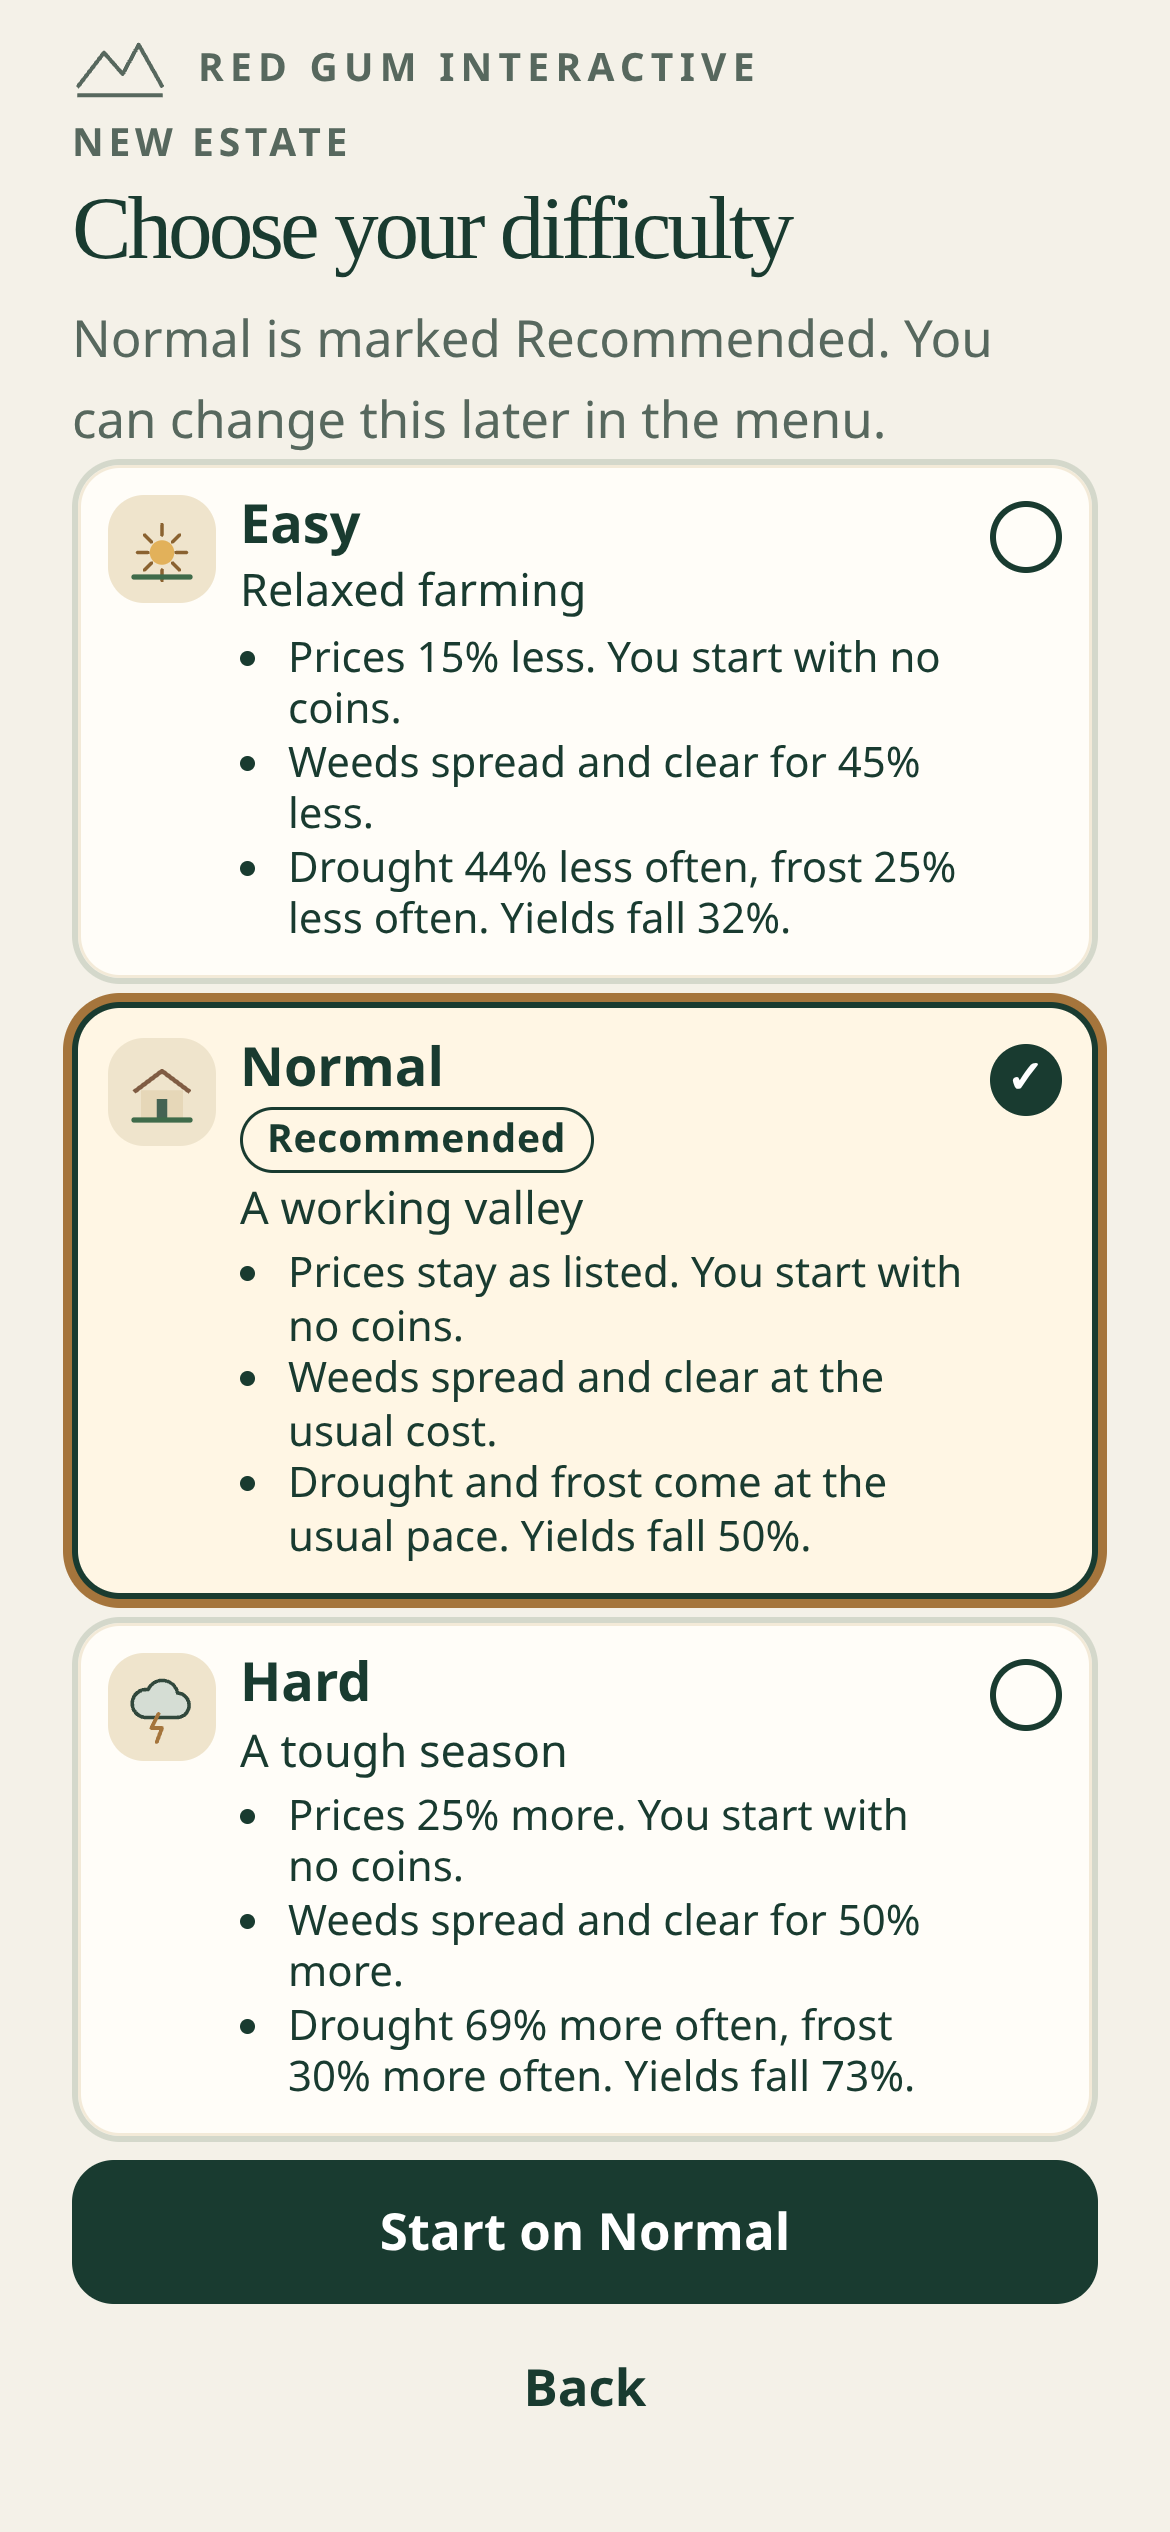
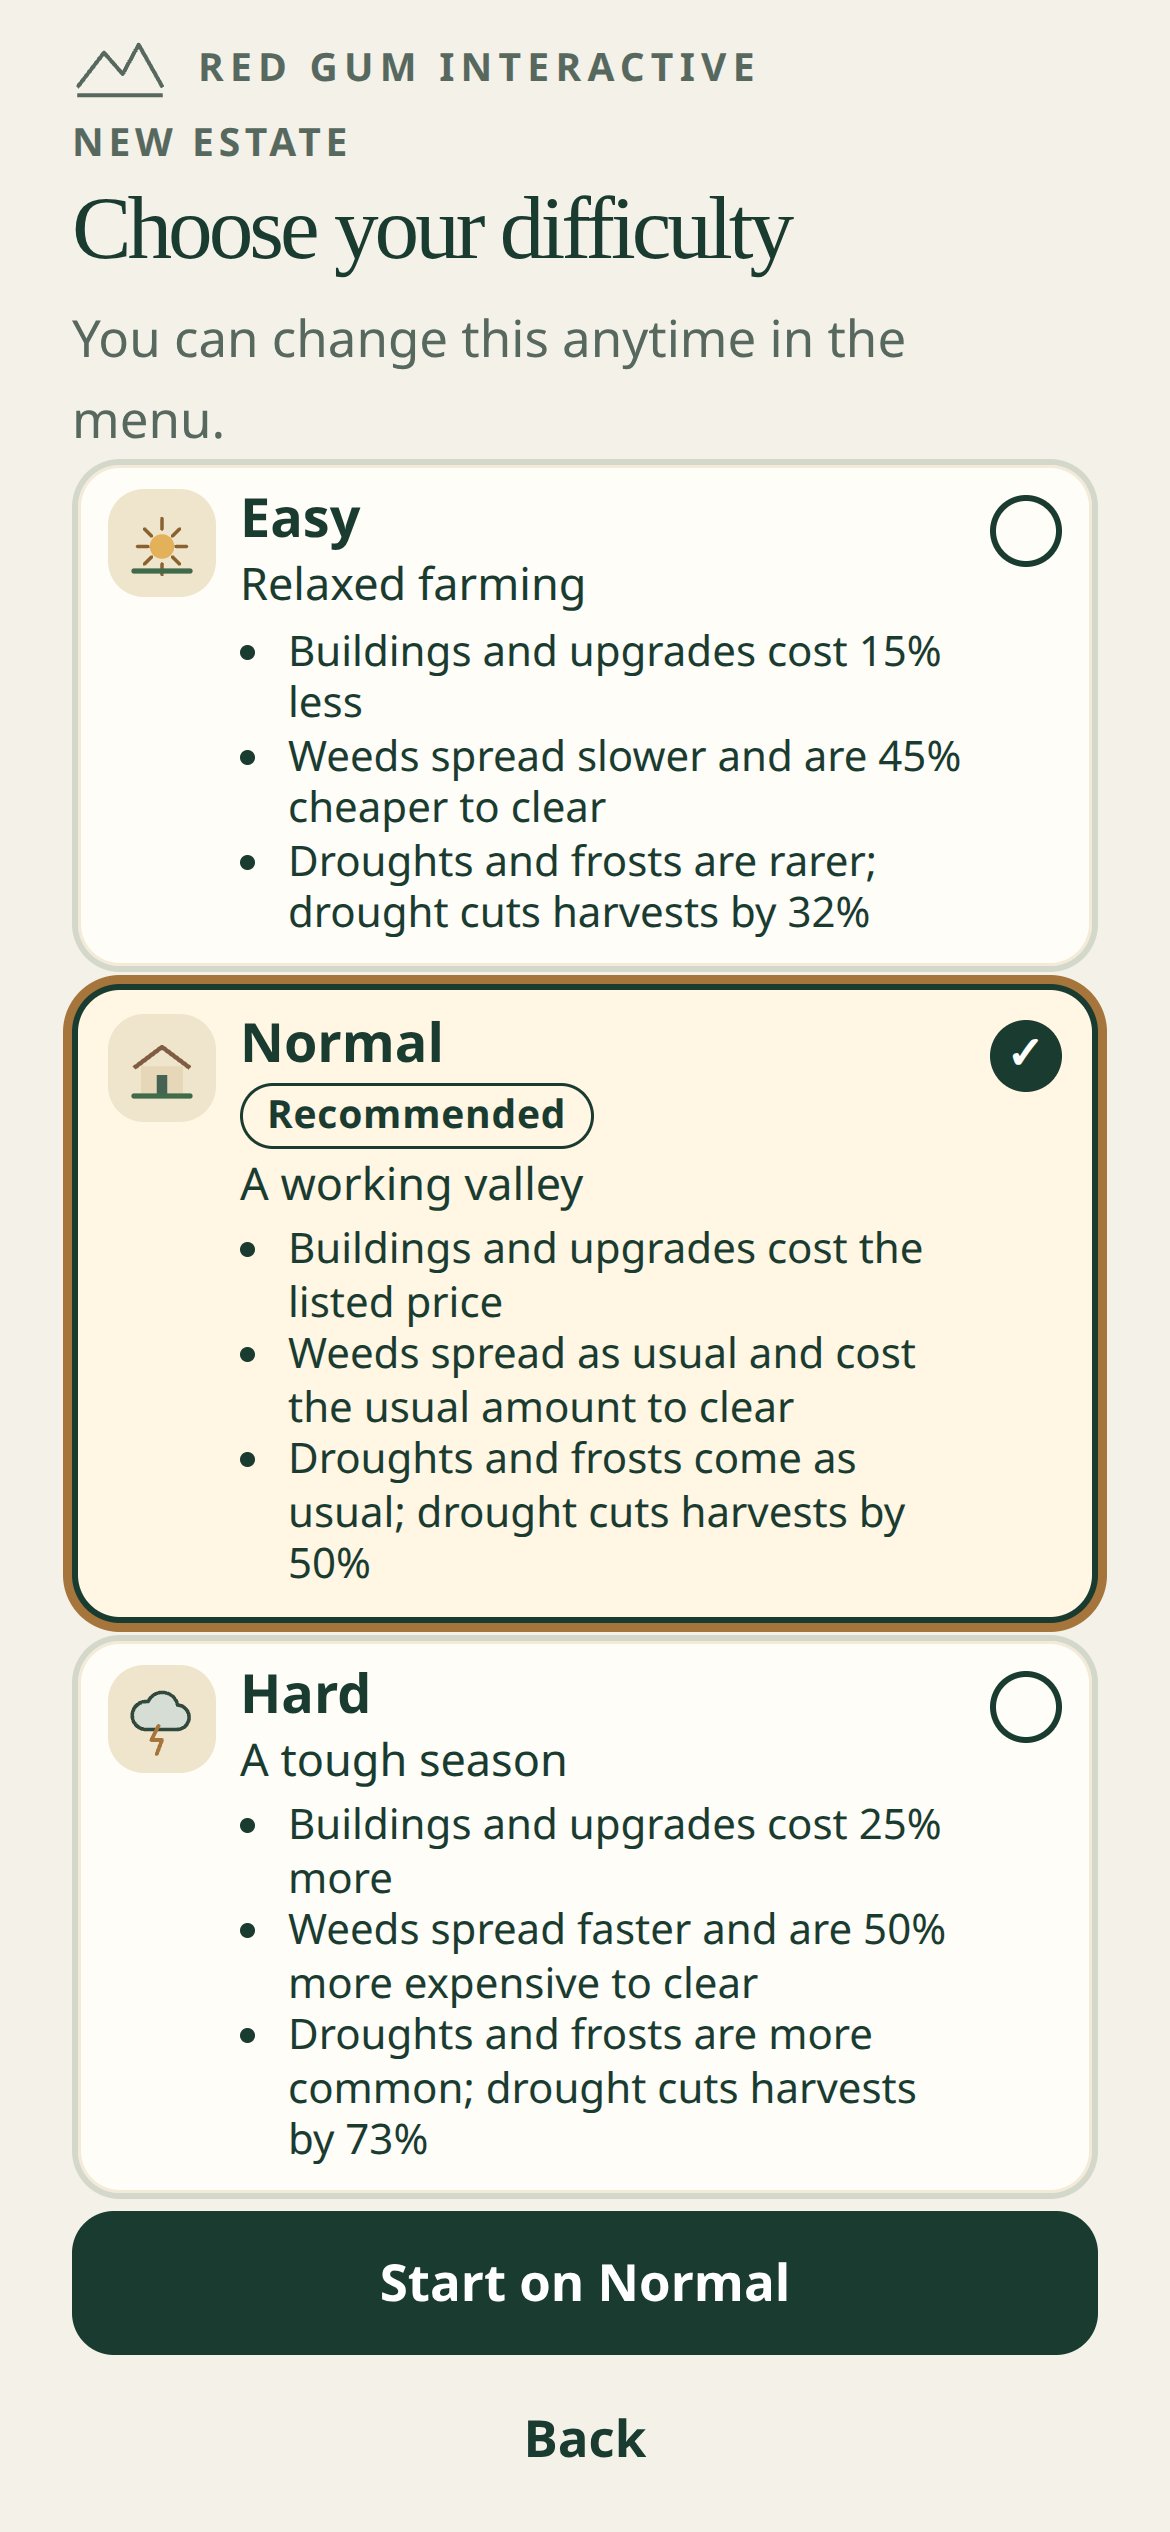
Clarify the difficulty cards and the menu change control.
Each card now uses the same Costs, Weeds, and Weather lines, and the menu opens those cards from a Change button instead of a second badge.

Changed region(s): [[0.0615, 0.1248, 0.9538, 0.9672], [0.8308, 0.1872, 0.9231, 0.2496], [0.1846, 0.5304, 0.2154, 0.5928]]

diff --git a/assets/entry.js b/assets/entry.js
@@ -5,7 +5,7 @@ const brand='<div class="entry-brand"><svg viewBox="0 0 36 24" fill="none" aria-
 const landscape=`<svg class="entry-art" viewBox="0 0 640 500" preserveAspectRatio="xMidYMid slice" role="img" aria-label="An illustrated valley estate with vineyard rows and a homestead"><defs><linearGradient id="entry-sky" x2="0" y2="1"><stop stop-color="#e3e8dc"/><stop offset="1" stop-color="#f3edda"/></linearGradient><clipPath id="entry-land"><path d="M0 260Q170 170 350 285T640 270V500H0Z"/></clipPath></defs><path fill="url(#entry-sky)" d="M0 0h640v500H0z"/><circle cx="480" cy="108" r="36" fill="#f8f1d9"/><path d="M0 222Q105 115 250 195T640 190V500H0Z" fill="#a6b6a1"/><path d="M0 263Q160 163 340 246T640 230V500H0Z" fill="#78917a"/><path d="M0 326Q160 206 360 298T640 268V500H0Z" fill="#486e54"/><path d="M0 380Q180 274 370 358T640 320V500H0Z" fill="#274e3d"/><g opacity=".43" stroke="#acb58a" stroke-width="8" clip-path="url(#entry-land)"><path d="m-160 500 405-208M-70 530 350 298M40 560l405-250M170 580l378-250M315 590l330-250"/></g><path d="m394 304 53-33 54 33v57H394Z" fill="#e6d7b8"/><path d="m382 305 65-43 67 43-7 9-60-36-59 37Z" fill="#805c43"/><path d="M433 324h21v37h-21zM402 320h17v17h-17zM469 320h17v17h-17z" fill="#456353"/><path d="M390 363h121" stroke="#bdac88" stroke-width="5"/><path d="M436 365q-11 41-82 70T257 500" fill="none" stroke="#c5ac7c" stroke-width="13"/><g fill="#203f32"><path d="m124 210-17 36h11l-19 37h41l-18-37h11Z"/><path d="m548 218-20 42h12l-22 44h48l-20-44h12Z"/></g><path d="M120 278v30m423-9v31" stroke="#54624a" stroke-width="5"/><path d="M41 414q39-19 77-19M525 398l72 15" fill="none" stroke="#79916d" stroke-width="2"/></svg>`;
 const footer='<footer class="entry-footer"><p>Ferguson Valley, Western Australia</p><nav aria-label="App information"><a href="privacy.html">Privacy</a><a href="credits.html">Credits</a><a href="support.html">Support</a></nav></footer>';
 function renderWelcome(continuing){const start=continuing?'<button class="entry-button" data-b="entry-start">Continue estate</button>':'<button class="entry-button" data-b="entry-difficulty">Start your estate</button>';return '<main class="entry-shell">'+brand+'<div class="entry-layout">'+landscape+'<section class="entry-copy"><p class="entry-eyebrow">A place to make your own</p><h1 class="entry-title" id="entry-title" tabindex="-1">Valley<br>Estates</h1><p class="entry-description">A quiet valley. A growing estate.<br>Build something worth coming back to.</p><div class="entry-actions">'+start+'<button class="entry-button secondary" data-b="entry-help">How to play</button></div><p class="entry-trust">Offline play. No account. Progress saved on this device.</p></section></div>'+footer+'</main>';}
-function renderDifficulty(difficulty, reset){const cards=root.VEExpansion.difficultyCardsHtml(difficulty||'normal');const spec=root.VEExpansion.difficultySpec(difficulty);const startLabel=(reset?'Erase and start on ':'Start on ')+spec.name;const note=reset?'Starting replaces this estate. You choose the pace first.':'Normal is marked Recommended. You can change this later in the menu.';return '<main class="entry-shell difficulty">'+brand+'<div class="entry-layout"><section class="entry-copy"><p class="entry-eyebrow">New estate</p><h1 class="entry-title" id="entry-title" tabindex="-1">Choose your difficulty</h1><p class="entry-description">'+note+'</p>'+cards+'<div class="entry-actions"><button class="entry-button" data-b="entry-start">'+startLabel+'</button><button class="entry-button secondary" data-b="entry-back">Back</button></div></section></div></main>';}
+function renderDifficulty(difficulty, reset){const cards=root.VEExpansion.difficultyCardsHtml(difficulty||'normal');const spec=root.VEExpansion.difficultySpec(difficulty);const startLabel=(reset?'Erase and start on ':'Start on ')+spec.name;const note=reset?'Starting replaces this estate. You choose the pace first.':'You can change this anytime in the menu.';return '<main class="entry-shell difficulty">'+brand+'<div class="entry-layout"><section class="entry-copy"><p class="entry-eyebrow">New estate</p><h1 class="entry-title" id="entry-title" tabindex="-1">Choose your difficulty</h1><p class="entry-description">'+note+'</p>'+cards+'<div class="entry-actions"><button class="entry-button" data-b="entry-start">'+startLabel+'</button><button class="entry-button secondary" data-b="entry-back">Back</button></div></section></div></main>';}
 function renderHelp(continuing){return '<main class="entry-shell help">'+brand+'<div class="entry-layout"><section><p class="entry-eyebrow">Your first few moments</p><h1 class="entry-title" id="entry-title" tabindex="-1">From a homestead<br>to your own estate.</h1><ol class="entry-steps"><li><h2>Put your farmhands to work</h2><p>Tap a farmhand, then a tree, rock or berry bush. Drag to explore; pinch to look closer.</p></li><li><h2>Give the valley room to grow</h2><p>Open Build to place your first cottage or field. Assign a farmhand to bring it to life.</p></li><li><h2>Find your own pace</h2><p>Follow the estate goals. Research better tools, grow vineyards and raise livestock as you progress.</p></li></ol><div class="entry-actions"><button class="entry-button" data-b="entry-start">'+(continuing?'Back to your estate':'Start your estate')+'</button><button class="entry-button secondary" data-b="entry-back">Back</button></div><p class="entry-trust">You can find these tips again in Menu.</p></section></div>'+footer+'</main>';}
 let active=false,muted=[],previousFocus=null,escapeHandler=null,entryMode='welcome';
 function isOpen(){return active;}

diff --git a/assets/expansion.js b/assets/expansion.js
@@ -819,20 +819,23 @@
     const yieldHit = difficultyPct((1 - droughtMul({ techs: {}, buildings: [], difficulty: spec.id })) * 100);
     const coins = Number(spec.coins) || 0;
     const priceText = price < 0
-      ? "Prices " + (-price) + "% less."
+      ? "Buildings and upgrades cost " + (-price) + "% less"
       : price > 0
-        ? "Prices " + price + "% more."
-        : "Prices stay as listed.";
-    const coinText = coins > 0 ? " You start with " + coins + " coins." : " You start with no coins.";
+        ? "Buildings and upgrades cost " + price + "% more"
+        : "Buildings and upgrades cost the listed price";
     const weedText = weeds < 0
-      ? "Weeds spread and clear for " + (-weeds) + "% less."
+      ? "Weeds spread slower and are " + (-weeds) + "% cheaper to clear"
       : weeds > 0
-        ? "Weeds spread and clear for " + weeds + "% more."
-        : "Weeds spread and clear at the usual cost.";
-    const weatherText = droughtOften === 0 && frostOften === 0
-      ? "Drought and frost come at the usual pace."
-      : "Drought " + oftenPhrase(droughtOften) + ", frost " + oftenPhrase(frostOften) + ".";
-    const yieldText = "Yields fall " + yieldHit + "%.";
+        ? "Weeds spread faster and are " + weeds + "% more expensive to clear"
+        : "Weeds spread as usual and cost the usual amount to clear";
+    const weatherPace = droughtOften < 0 && frostOften <= 0
+      ? "Droughts and frosts are rarer"
+      : droughtOften > 0 && frostOften >= 0
+        ? "Droughts and frosts are more common"
+        : "Droughts and frosts come as usual";
+    const weatherText = weatherPace + "; drought cuts harvests by " + yieldHit + "%";
+    const bullets = [priceText, weedText, weatherText];
+    if (coins > 0) bullets[0] += ". You start with " + coins + " coins";
     return {
       id: spec.id,
       name: spec.name,
@@ -849,15 +852,9 @@
       droughtOften: droughtOften,
       frostOften: frostOften,
       yieldHit: yieldHit,
-      bullets: [priceText + coinText, weedText, weatherText + " " + yieldText],
-      live: [priceText, weedText, weatherText + " " + yieldText],
+      bullets: bullets,
+      live: [priceText, weedText, weatherText],
     };
-  }
-
-  function oftenPhrase(pct) {
-    if (pct < 0) return (-pct) + "% less often";
-    if (pct > 0) return pct + "% more often";
-    return "at the usual pace";
   }
 
   function changedPct(from, to) {
@@ -875,9 +872,9 @@
     const to = difficultyFacts(toId);
     if (from.id === to.id) return "This estate is already on " + to.name + ".";
     const yieldLine = to.yieldHit === from.yieldHit
-      ? "Drought still cuts field yields by " + to.yieldHit + "%."
-      : "Drought cuts field yields by " + to.yieldHit + "% instead of " + from.yieldHit + "%.";
-    return "Change from " + from.name + " to " + to.name + "? " + thanNow(changedPct(from.costMul, to.costMul), "Building and study prices will be") + " " + thanNow(changedPct(from.weedMul, to.weedMul), "Weed spread and the cost to clear them will be") + " " + thanNow(changedPct(from.droughtRate, to.droughtRate), "Drought will come") + " " + thanNow(changedPct(from.frostRate, to.frostRate), "Frost will come") + " " + yieldLine + " Coins, buildings and stock stay as they are.";
+      ? "Drought still cuts harvests by " + to.yieldHit + "%."
+      : "Drought cuts harvests by " + to.yieldHit + "% instead of " + from.yieldHit + "%.";
+    return "Change from " + from.name + " to " + to.name + "? " + thanNow(changedPct(from.costMul, to.costMul), "Building and upgrade prices will be") + " " + thanNow(changedPct(from.weedMul, to.weedMul), "Weed spread and the cost to clear them will be") + " " + thanNow(changedPct(from.droughtRate, to.droughtRate), "Drought will come") + " " + thanNow(changedPct(from.frostRate, to.frostRate), "Frost will come") + " " + yieldLine + " Coins, buildings and stock stay as they are.";
   }
 
   function escText(value) {
@@ -905,7 +902,7 @@
 
   function difficultyMenuHtml(id) {
     const card = difficultyFacts(id);
-    return '<p class="diff-badge-row"><span class="diff-badge">' + escText(card.name) + '</span><span class="diff-badge-note">' + escText(card.vibe) + '</span></p><button type="button" class="diff-setting" data-b="difficulty-open" aria-label="Difficulty, ' + escText(card.name) + ", " + escText(card.vibe) + '"><span class="diff-setting-kicker">Difficulty</span><span class="diff-setting-value">' + escText(card.name) + '</span><span class="diff-setting-vibe">' + escText(card.vibe) + "</span></button>";
+    return '<button type="button" class="diff-setting" data-b="difficulty-open" aria-label="Difficulty, ' + escText(card.name) + ", " + escText(card.vibe) + ', Change"><span class="diff-setting-copy"><span class="diff-setting-kicker">Difficulty</span><span class="diff-setting-value">' + escText(card.name) + '</span><span class="diff-setting-vibe">' + escText(card.vibe) + '</span></span><span class="diff-setting-change">Change <span class="diff-setting-chevron" aria-hidden="true">›</span></span></button>';
   }
 
   function difficultyPickerHtml(id) {

diff --git a/assets/entry.css b/assets/entry.css
@@ -27,10 +27,10 @@ body.entry-active>#cv,body.entry-active>#hud,body.entry-active>#bar,body.entry-a
 .entry-shell.difficulty{padding-top:calc(10px + env(safe-area-inset-top,0px));padding-bottom:calc(8px + env(safe-area-inset-bottom,0px))}
 .entry-shell.difficulty .entry-description{font-size:15px;line-height:1.3;margin-bottom:6px}
 .entry-shell.difficulty .entry-layout{align-items:start;padding-top:0;gap:6px}
-.entry-shell.difficulty .entry-actions{margin-top:6px;gap:4px}
+.entry-shell.difficulty .entry-actions{margin-top:4px;gap:4px}
 .entry-shell.difficulty .entry-button{min-height:48px;padding:12px 16px}
-.diff-cards{display:flex;flex-direction:column;gap:6px}
-.diff-card{display:grid;grid-template-columns:36px 1fr 24px;gap:8px;align-items:start;width:100%;text-align:left;padding:10px;border-radius:16px;border:2px solid var(--entry-line);background:#fffdf8;color:var(--entry-ink);font:500 15px/1.35 -apple-system,BlinkMacSystemFont,system-ui,sans-serif;box-shadow:inset 0 0 0 1px #f3ead8}
+.diff-cards{display:flex;flex-direction:column;gap:4px}
+.diff-card{display:grid;grid-template-columns:36px 1fr 24px;gap:8px;align-items:start;width:100%;text-align:left;padding:8px 10px;border-radius:16px;border:2px solid var(--entry-line);background:#fffdf8;color:var(--entry-ink);font:500 15px/1.35 -apple-system,BlinkMacSystemFont,system-ui,sans-serif;box-shadow:inset 0 0 0 1px #f3ead8}
 .diff-card.is-on{border-color:var(--entry-ink);background:#fff6e4;box-shadow:0 0 0 3px var(--entry-accent)}
 .diff-icon{width:36px;height:36px;border-radius:12px;background:#efe4cc;display:grid;place-items:center}
 .diff-icon svg{width:28px;height:28px;display:block}
@@ -44,13 +44,13 @@ body.entry-active>#cv,body.entry-active>#hud,body.entry-active>#bar,body.entry-a
 .diff-tick-mark{font-size:15px;font-weight:700;line-height:1;color:#fff}
 .diff-card.is-on .diff-tick{background:var(--entry-ink)}
 .diff-card:focus-visible{outline:3px solid var(--entry-accent);outline-offset:3px}
-.diff-badge-row{display:flex;align-items:center;gap:8px;margin:0 0 10px}
-.diff-badge{display:inline-flex;align-items:center;min-height:28px;padding:2px 10px;border:1px solid #193b30;border-radius:999px;background:#fff6e4;color:#193b30;font-size:13px;font-weight:700}
-.diff-badge-note{font-size:14px;color:#193b30}
-.diff-setting{display:flex;flex-direction:column;align-items:flex-start;gap:2px;width:100%;margin:0 0 12px;padding:12px 14px;min-height:44px;text-align:left;border-radius:14px;border:2px solid #193b30;background:#f4f1e8;color:#193b30;font:600 16px/1.3 -apple-system,BlinkMacSystemFont,system-ui,sans-serif}
+.diff-setting{display:flex;flex-direction:row;align-items:center;justify-content:space-between;gap:12px;width:100%;margin:0 0 12px;padding:12px 12px 12px 14px;min-height:44px;text-align:left;border-radius:14px;border:2px solid #193b30;background:#fffdf8;color:#193b30;font:600 16px/1.3 -apple-system,BlinkMacSystemFont,system-ui,sans-serif}
+.diff-setting-copy{display:flex;flex-direction:column;align-items:flex-start;gap:2px;min-width:0}
 .diff-setting-kicker{font-size:13px;font-weight:700;letter-spacing:.08em;text-transform:uppercase}
 .diff-setting-value{font-size:18px}
 .diff-setting-vibe{font-size:15px;font-weight:500}
+.diff-setting-change{display:inline-flex;align-items:center;gap:4px;flex:0 0 auto;min-height:36px;padding:6px 12px;border-radius:999px;background:#193b30;color:#fff;font-size:15px;font-weight:700}
+.diff-setting-chevron{font-size:20px;line-height:1}
 .diff-confirm{width:100%;min-height:48px;margin:0 0 8px;padding:12px 14px;border:0;border-radius:14px;background:#193b30;color:#fff;font:600 16px/1.3 -apple-system,BlinkMacSystemFont,system-ui,sans-serif}
 .diff-confirm.secondary{background:transparent;color:#193b30;border:2px solid #193b30}
 @media(prefers-reduced-motion:reduce){.diff-card,.diff-setting,.diff-confirm{transition:none}}
